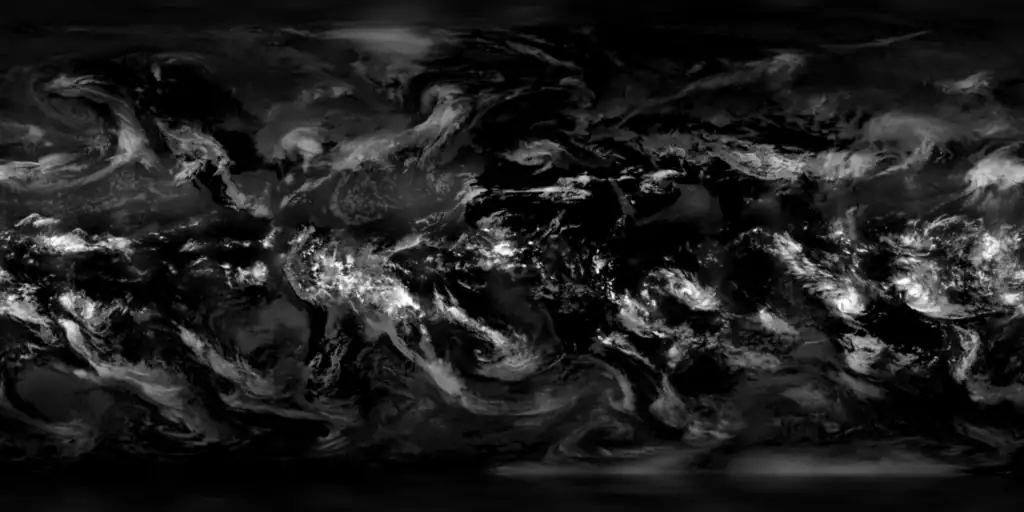
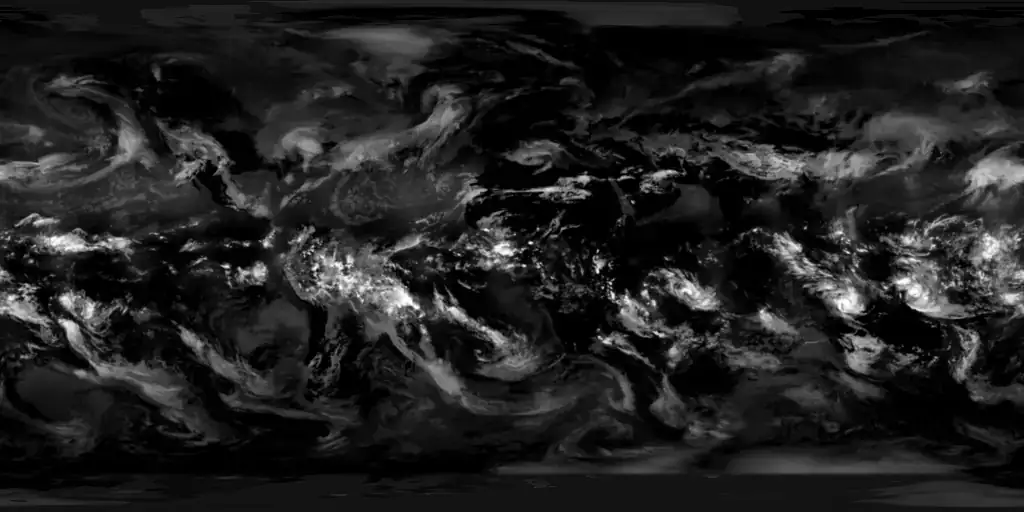
✨ feat(sail-the-stars): real satellite clouds over the poles
Earth's cloud map had no data beyond about 80°N and 76°S, because the
VIIRS daylight image saw nothing there in March. Those caps were mirrored
and blurred filler: an even grey haze. They now come from MODIS Aqua cloud
cover and cloud-top height for the same day, 21 March 2019, faded into
the existing map over 2°. The daily polar mosaics are stitched from passes
hours apart, which leaves some straight edges near the North Pole.

diff --git a/apps/sail-the-stars/index.html b/apps/sail-the-stars/index.html
@@ -219,7 +219,7 @@
         <input type="checkbox" data-speculation>
         <span>Speculative: future lights on the Moon and Mars, Venus slowly turned into a second Earth, alien cities on planets that might suit life, and wormholes</span>
       </label>
-      <p class="fh-note" data-solar-note hidden>Planet and moon positions and spins are real for today's date. From 2050 to 3000 the planets stay within about a quarter of a degree of NASA's, going by the dates we checked, but the smaller moons drift. After 3000, in our checks at 4500 and 9500, Mercury to Saturn stay within half a degree, the Moon within a degree, Uranus within about 6 and Neptune within about 5; eclipses that late land in the wrong place. Earth, Moon and Mars surfaces come from real NASA maps (about 39, 11 and 21 km per pixel); finer detail is made up by the game, including the exact outlines of light and dark patches, which the maps only show blurred, and the hills and small craters you see after landing. Every rock and blade of grass is made up too: grass grows where the map of Earth, or of terraformed Venus, is green, and Titan's pebbles are rounded like those Huygens photographed. The courses of Earth's large rivers are real, from Natural Earth's maps; their widths, depths, small bends and valleys are made up. Rivers on terraformed Venus and on other stars' planets follow the lie of the land from high ground to the sea, and lava rivers on the hottest planets run down to the lowest ground; all of those are made up. Fly down to land on any of the three. Landing turns on Follow and Rotate with, so you stay on the spot you reached; either can be turned off. Earth's clouds are real ones: a NASA satellite (VIIRS on Suomi NPP, through NASA GIBS) photographed them on 21 March 2019. Their shapes stay frozen at that day, but the game carries them all eastward around the globe once every 40 days, so they drift off the coasts and mountains they formed over. Shapes finer than about 13 km, their heights up close and the clouds over the poles are made up. Earth's city lights are real too, from NASA's Black Marble map of 2016; single lamps, shapes finer than about 5 km, their colours, their glow on clouds and their growth since 1882 are made up. Venus shows its real, nearly featureless cloud tops, which hide its surface; their faint streaks are made up. Titan's orange haze also hides its surface; its faint haze patterns are made up. You can fly down through both and land. Venus's hills come from Magellan radar, but its rock colour is a guess, since no camera has mapped it. Titan's hills come from Cassini radar, which measured only about 9% of the surface; the rest is filled in. Its ground brightness comes from Cassini's infrared camera. The glow of air around Earth, Mars, Venus and Titan is worked out from how sunlight scatters in each one's air, with strengths tuned by eye. Saturn's rings use their real radii, gaps and thicknesses, and cast and catch real shadows; their fine ringlets are made up. Solar and lunar eclipses happen on their real dates and paths: the Moon matches NASA's ephemeris to within about 20 arcseconds (roughly 40 km on the ground). During totality the corona appears; its streamers are made up. The four giant planets' swirls are painted by the game, flowing along made-up winds. They keep drifting and changing under a thin layer of high cloud, much faster than the real ones so you can see it; pausing time stops them. Their band positions and colours are tuned by eye to real photos, and the Great Red Spot, Saturn's hexagon and other features sit at about their real latitudes but made-up longitudes. Other planets and moons are placeholders until their maps are added, though every moon follows its real orbit. Dwarf planets follow JPL's orbits (within 0.7° from 1700 to 2400 for Ceres, 0.2° for the rest); their faraway dates drift more. Ceres, Pluto and Charon use real maps from Dawn and New Horizons, tinted by eye. Nobody has seen the far south of Pluto and Charon, so that part is made up, and so are the heights over most of their far sides; Ceres has only made-up hills. Pluto's haze is drawn brighter than it is. Every other dwarf planet and its moons have made-up surfaces in roughly their measured colours and sizes, as nobody has seen them up close. Haumea's stretched shape comes from its occultation of a star in 2017, but which way its long end points is a guess. Orcus, Quaoar, Gonggong and Sedna are likely dwarf planets, not officially agreed ones. Haumea's moons follow their real orbits but may be at the wrong place along them; the spin poles of Makemake, Gonggong and Sedna are guesses, and some small moons and faint rings are left out. Type Voyager 1, Curiosity or Apollo 11 under Select to visit a spacecraft, lander or rover. Thirty-four spacecraft follow paths from NASA's JPL Horizons service for as long as JPL lists them, squeezed to about 0.3 MB; they are typically within 0.1% of JPL's distance from whatever they circle, and a few percent off in the days around a flyby or arrival. Where a low orbit is drawn round Earth, the Moon or Mars, its size and tilt are real but the place along it is approximate. After JPL's data ends, craft still orbiting or drifting simply carry on. Thirty-eight landers and rovers stand at their published coordinates. Rovers move between a few dated stops in a straight line; the real routes wind about. The ground around them is the game's own, so it won't match their photos. Every model is simplified and built by hand from published sizes, and which way each craft points is worked out from its job (dish to Earth, panels to the Sun). Spacecraft on the dark side get a faint light so you can see them. Landers on comets and asteroids are left out because those worlds aren't in the game. Another 193 stars have their known planets, including nearly all hosts brighter than magnitude 6.6: type TRAPPIST-1, Pollux or 47 Ursae Majoris under Select. Planets NASA marks as disputed are left out. Star positions, sizes and temperatures, and planet sizes, masses, years and orbit sizes come from the NASA Exoplanet Archive; “about” and “at least” mark numbers nobody has measured directly. Planets that pass in front of their star do so at the measured times. Made up: which way each orbit is turned on the sky, missing tilts and positions, spins (close planets are assumed to keep one side to their star), and every surface, sea, cloud and crater, though lava, ice and seas follow each planet's temperature. No one has seen an exoplanet's surface. Young giants photographed directly, such as those of HR 8799 and Beta Pictoris, glow with the colour of their measured heat. You can land on the rocky ones: their hills, coasts, craters and lava cracks are made up too, and so is the air over the mild ones. Their clouds, and those of terraformed Venus, are ten maps from a simplified weather simulation of an Earth-like planet, reused from world to world. Every other star except the young ones in nebulae can have procedurally generated planets; the panel says so when you click one, and the same star always has the same planets. They are not real, only plausible and consistent with physics. How many there are, their sizes and their spacing follow survey results: close-in small planets a model fitted to Kepler's finds (He and Ford 2026), those of red dwarfs Dressing and Charbonneau 2015, giants Fulton 2021 and Rosenthal 2022, cold small planets a count from microlensing (Zang 2025). In a test of 20,000 F, G and K stars, 87% had a close-in small planet, 14 giants turned up per 100 stars between 2 and 8 AU, and 0.4% had a hot Jupiter. Planets of 1 to 4 Earth radii around red dwarfs came out about a fifth too rare, and giants too weakly tied to small inner planets. Planets too close together to last are thrown out, and so are those within 0.4 AU of swollen giant stars. Stars heavier than 3 Suns get none. Companion stars limit planets only where the star catalogue lists them, and the orbits ignore planets' pull on each other. Simulated stars are named SIM and a number; unnamed real ones by their place in Earth's sky. Black holes: type Sagittarius A*, OGLE-2011-BLG-0462, Nearest black hole or Nearest black hole with planets under Select. All but the first two are simulated: about 120 million in the Milky Way (Olejak 2020), each placed at random where old stars are, with a mass worked out from the star it was (Spera 2015). Their planets are procedurally generated too. They form like those of a 3-Sun star, any that came nearer than the star's largest radius (Romagnolo 2023, its largest estimate) are removed, and the rest move outward as the star loses mass. Kicks from the collapse, companions and gas falling in are left out, so these black holes are dark and only bend light. No light but the sky's reaches their planets, drawn a little brighter than it would be; their temperatures are their own inner heat. Sagittarius A* has its measured mass and place. The gas around it is drawn from models, since no telescope sees it in visible light: hot, thick and see-through, brighter on the side turning toward you. Its clumps, exact shape and tilt are made up, and its brightness is carried over from infrared; the orange of the 2022 picture stands for radio waves. Light paths follow general relativity for a black hole that does not spin, seen from a ship standing still; planets behind one are bent as if they were very far away, and the colour shift of the sky close in is left out. The ship stops at 1.2 times the horizon's radius. With Speculative on, the Moon and Mars gain lights as the date runs forward to the year 3000; every place, date and number there is a guess. The Moon only gets a few dots, about 25 stations with 25,000 people at most, because its ice is thought too scarce for cities even with careful recycling. A first base stands near its south pole in the 2030s, as NASA and China plan. Mars has far more ice: people land in the 2040s, about 1,500 live there in 2100, 100,000 in 2200 and 100 million in 3000, mostly near its buried ice and low ground. The lights are drawn brighter than such small places would look. Venus is terraformed from 2400 to 9500, going by published ideas, with dates we made up. A sunshade of small mirrors, 25,000 km wide, grows between Venus and the Sun until 2560. In its shade the planet cools; by 2740 the clouds are gone, from 2760 the carbon dioxide rains out as seas, and by 3000 those have frozen. Shipped hydrogen then turns the dry ice into water and carbon, which takes about 2,300 years. A Venus day lasts 117 Earth days, so from 5300 a second mirror circles Venus once a day and stands in for the Sun. The shade stays to block the real one. The ice melts, plants grow from 5800, people move in from 5900, and the air can be breathed by 7500. Coasts follow Magellan's radar heights with the sea filled to the level its water would reach; clouds, plants and cities are made up. LHS 1140 b and TOI-700 d and e show city lights on their night sides. The lamps take their star's colour, on the idea that eyes evolved under it would see that colour as white. No sign of life has been found on any planet but Earth; these three were chosen because they are rocky, warm enough for liquid water in the game, heavy enough that we guess they have a magnetic field, and circle quieter stars than Proxima or TRAPPIST-1. Procedurally generated planets that pass the same tests for size and warmth can have cities too. The game guesses generously: wherever 4.5 billion steady years have passed, as they have for Earth, it puts a civilization that still lasts. Each star gets an age picked evenly from 0 to 10 billion years, or to the end of its life if sooner. The wait starts when its flares calm down (after 0.8 to 7 billion years for red dwarfs, roughly following West and others 2008), and the planet must have been warm enough all that time while its star brightened. About 1 star in 20 near the Sun then has one. Nobody knows the true share: if civilizations lasted only 100 years, Westby and Conselice (2020) expect about 36 in the whole Galaxy. Type “Nearest civilization” under Select to visit the closest. Four wormhole mouths appear too, in two pairs. They are made up: general relativity allows the shape, but nobody has seen one or knows how to make one, so they stay hidden unless Speculative is on. The first pair, 100 m in radius, joins the Sun's planets to Proxima Centauri from 6043, after the far mouth has been carried there for 43 years at a tenth of light speed. The second, 300 m in radius, joins LHS 1140 to TOI-700 at every date and was built by the made-up civilization of LHS 1140 b. Each mouth keeps 60° ahead of a planet on its orbit, where small things stay put: Earth, Proxima b, LHS 1140 b and TOI-700 d. Type Wormhole under Select to find them, then fly straight in. Their shape is the simplest known one (Ellis 1973), and light through and around them follows general relativity worked out from it, as in James, von Tunzelmann, Franklin and Thorne 2015. It has no gravity, so nothing pulls the ship, stretches it or slows its clock, and you need no speed to cross. Holding one open takes matter with negative energy, about 2 × 10⁴⁴ joules of it per metre of radius: a tenth of the Sun's whole mass turned to energy for the first pair. No such matter is known, and quantum rules worked out by Ford and Roman suggest that a throat that wide would need it squeezed into an absurdly thin layer. Two wormhole mouths could also make a time machine; the game ignores that, and keeps one date everywhere. Planets on the far side show as points of light, the mouths cast no light on nearby worlds, and long-exposure photos leave them out.</p>
+      <p class="fh-note" data-solar-note hidden>Planet and moon positions and spins are real for today's date. From 2050 to 3000 the planets stay within about a quarter of a degree of NASA's, going by the dates we checked, but the smaller moons drift. After 3000, in our checks at 4500 and 9500, Mercury to Saturn stay within half a degree, the Moon within a degree, Uranus within about 6 and Neptune within about 5; eclipses that late land in the wrong place. Earth, Moon and Mars surfaces come from real NASA maps (about 39, 11 and 21 km per pixel); finer detail is made up by the game, including the exact outlines of light and dark patches, which the maps only show blurred, and the hills and small craters you see after landing. Every rock and blade of grass is made up too: grass grows where the map of Earth, or of terraformed Venus, is green, and Titan's pebbles are rounded like those Huygens photographed. The courses of Earth's large rivers are real, from Natural Earth's maps; their widths, depths, small bends and valleys are made up. Rivers on terraformed Venus and on other stars' planets follow the lie of the land from high ground to the sea, and lava rivers on the hottest planets run down to the lowest ground; all of those are made up. Fly down to land on any of the three. Landing turns on Follow and Rotate with, so you stay on the spot you reached; either can be turned off. Earth's clouds are real ones: a NASA satellite (VIIRS on Suomi NPP, through NASA GIBS) photographed them on 21 March 2019. Beyond about 80°N and 76°S, where it saw no daylight, they come from MODIS on NASA's Aqua satellite the same day, pieced together from passes hours apart, which leaves some straight edges. Their shapes stay frozen at that day, but the game carries them all eastward around the globe once every 40 days, so they drift off the coasts and mountains they formed over. Shapes finer than about 13 km and their heights up close are made up. Earth's city lights are real too, from NASA's Black Marble map of 2016; single lamps, shapes finer than about 5 km, their colours, their glow on clouds and their growth since 1882 are made up. Venus shows its real, nearly featureless cloud tops, which hide its surface; their faint streaks are made up. Titan's orange haze also hides its surface; its faint haze patterns are made up. You can fly down through both and land. Venus's hills come from Magellan radar, but its rock colour is a guess, since no camera has mapped it. Titan's hills come from Cassini radar, which measured only about 9% of the surface; the rest is filled in. Its ground brightness comes from Cassini's infrared camera. The glow of air around Earth, Mars, Venus and Titan is worked out from how sunlight scatters in each one's air, with strengths tuned by eye. Saturn's rings use their real radii, gaps and thicknesses, and cast and catch real shadows; their fine ringlets are made up. Solar and lunar eclipses happen on their real dates and paths: the Moon matches NASA's ephemeris to within about 20 arcseconds (roughly 40 km on the ground). During totality the corona appears; its streamers are made up. The four giant planets' swirls are painted by the game, flowing along made-up winds. They keep drifting and changing under a thin layer of high cloud, much faster than the real ones so you can see it; pausing time stops them. Their band positions and colours are tuned by eye to real photos, and the Great Red Spot, Saturn's hexagon and other features sit at about their real latitudes but made-up longitudes. Other planets and moons are placeholders until their maps are added, though every moon follows its real orbit. Dwarf planets follow JPL's orbits (within 0.7° from 1700 to 2400 for Ceres, 0.2° for the rest); their faraway dates drift more. Ceres, Pluto and Charon use real maps from Dawn and New Horizons, tinted by eye. Nobody has seen the far south of Pluto and Charon, so that part is made up, and so are the heights over most of their far sides; Ceres has only made-up hills. Pluto's haze is drawn brighter than it is. Every other dwarf planet and its moons have made-up surfaces in roughly their measured colours and sizes, as nobody has seen them up close. Haumea's stretched shape comes from its occultation of a star in 2017, but which way its long end points is a guess. Orcus, Quaoar, Gonggong and Sedna are likely dwarf planets, not officially agreed ones. Haumea's moons follow their real orbits but may be at the wrong place along them; the spin poles of Makemake, Gonggong and Sedna are guesses, and some small moons and faint rings are left out. Type Voyager 1, Curiosity or Apollo 11 under Select to visit a spacecraft, lander or rover. Thirty-four spacecraft follow paths from NASA's JPL Horizons service for as long as JPL lists them, squeezed to about 0.3 MB; they are typically within 0.1% of JPL's distance from whatever they circle, and a few percent off in the days around a flyby or arrival. Where a low orbit is drawn round Earth, the Moon or Mars, its size and tilt are real but the place along it is approximate. After JPL's data ends, craft still orbiting or drifting simply carry on. Thirty-eight landers and rovers stand at their published coordinates. Rovers move between a few dated stops in a straight line; the real routes wind about. The ground around them is the game's own, so it won't match their photos. Every model is simplified and built by hand from published sizes, and which way each craft points is worked out from its job (dish to Earth, panels to the Sun). Spacecraft on the dark side get a faint light so you can see them. Landers on comets and asteroids are left out because those worlds aren't in the game. Another 193 stars have their known planets, including nearly all hosts brighter than magnitude 6.6: type TRAPPIST-1, Pollux or 47 Ursae Majoris under Select. Planets NASA marks as disputed are left out. Star positions, sizes and temperatures, and planet sizes, masses, years and orbit sizes come from the NASA Exoplanet Archive; “about” and “at least” mark numbers nobody has measured directly. Planets that pass in front of their star do so at the measured times. Made up: which way each orbit is turned on the sky, missing tilts and positions, spins (close planets are assumed to keep one side to their star), and every surface, sea, cloud and crater, though lava, ice and seas follow each planet's temperature. No one has seen an exoplanet's surface. Young giants photographed directly, such as those of HR 8799 and Beta Pictoris, glow with the colour of their measured heat. You can land on the rocky ones: their hills, coasts, craters and lava cracks are made up too, and so is the air over the mild ones. Their clouds, and those of terraformed Venus, are ten maps from a simplified weather simulation of an Earth-like planet, reused from world to world. Every other star except the young ones in nebulae can have procedurally generated planets; the panel says so when you click one, and the same star always has the same planets. They are not real, only plausible and consistent with physics. How many there are, their sizes and their spacing follow survey results: close-in small planets a model fitted to Kepler's finds (He and Ford 2026), those of red dwarfs Dressing and Charbonneau 2015, giants Fulton 2021 and Rosenthal 2022, cold small planets a count from microlensing (Zang 2025). In a test of 20,000 F, G and K stars, 87% had a close-in small planet, 14 giants turned up per 100 stars between 2 and 8 AU, and 0.4% had a hot Jupiter. Planets of 1 to 4 Earth radii around red dwarfs came out about a fifth too rare, and giants too weakly tied to small inner planets. Planets too close together to last are thrown out, and so are those within 0.4 AU of swollen giant stars. Stars heavier than 3 Suns get none. Companion stars limit planets only where the star catalogue lists them, and the orbits ignore planets' pull on each other. Simulated stars are named SIM and a number; unnamed real ones by their place in Earth's sky. Black holes: type Sagittarius A*, OGLE-2011-BLG-0462, Nearest black hole or Nearest black hole with planets under Select. All but the first two are simulated: about 120 million in the Milky Way (Olejak 2020), each placed at random where old stars are, with a mass worked out from the star it was (Spera 2015). Their planets are procedurally generated too. They form like those of a 3-Sun star, any that came nearer than the star's largest radius (Romagnolo 2023, its largest estimate) are removed, and the rest move outward as the star loses mass. Kicks from the collapse, companions and gas falling in are left out, so these black holes are dark and only bend light. No light but the sky's reaches their planets, drawn a little brighter than it would be; their temperatures are their own inner heat. Sagittarius A* has its measured mass and place. The gas around it is drawn from models, since no telescope sees it in visible light: hot, thick and see-through, brighter on the side turning toward you. Its clumps, exact shape and tilt are made up, and its brightness is carried over from infrared; the orange of the 2022 picture stands for radio waves. Light paths follow general relativity for a black hole that does not spin, seen from a ship standing still; planets behind one are bent as if they were very far away, and the colour shift of the sky close in is left out. The ship stops at 1.2 times the horizon's radius. With Speculative on, the Moon and Mars gain lights as the date runs forward to the year 3000; every place, date and number there is a guess. The Moon only gets a few dots, about 25 stations with 25,000 people at most, because its ice is thought too scarce for cities even with careful recycling. A first base stands near its south pole in the 2030s, as NASA and China plan. Mars has far more ice: people land in the 2040s, about 1,500 live there in 2100, 100,000 in 2200 and 100 million in 3000, mostly near its buried ice and low ground. The lights are drawn brighter than such small places would look. Venus is terraformed from 2400 to 9500, going by published ideas, with dates we made up. A sunshade of small mirrors, 25,000 km wide, grows between Venus and the Sun until 2560. In its shade the planet cools; by 2740 the clouds are gone, from 2760 the carbon dioxide rains out as seas, and by 3000 those have frozen. Shipped hydrogen then turns the dry ice into water and carbon, which takes about 2,300 years. A Venus day lasts 117 Earth days, so from 5300 a second mirror circles Venus once a day and stands in for the Sun. The shade stays to block the real one. The ice melts, plants grow from 5800, people move in from 5900, and the air can be breathed by 7500. Coasts follow Magellan's radar heights with the sea filled to the level its water would reach; clouds, plants and cities are made up. LHS 1140 b and TOI-700 d and e show city lights on their night sides. The lamps take their star's colour, on the idea that eyes evolved under it would see that colour as white. No sign of life has been found on any planet but Earth; these three were chosen because they are rocky, warm enough for liquid water in the game, heavy enough that we guess they have a magnetic field, and circle quieter stars than Proxima or TRAPPIST-1. Procedurally generated planets that pass the same tests for size and warmth can have cities too. The game guesses generously: wherever 4.5 billion steady years have passed, as they have for Earth, it puts a civilization that still lasts. Each star gets an age picked evenly from 0 to 10 billion years, or to the end of its life if sooner. The wait starts when its flares calm down (after 0.8 to 7 billion years for red dwarfs, roughly following West and others 2008), and the planet must have been warm enough all that time while its star brightened. About 1 star in 20 near the Sun then has one. Nobody knows the true share: if civilizations lasted only 100 years, Westby and Conselice (2020) expect about 36 in the whole Galaxy. Type “Nearest civilization” under Select to visit the closest. Four wormhole mouths appear too, in two pairs. They are made up: general relativity allows the shape, but nobody has seen one or knows how to make one, so they stay hidden unless Speculative is on. The first pair, 100 m in radius, joins the Sun's planets to Proxima Centauri from 6043, after the far mouth has been carried there for 43 years at a tenth of light speed. The second, 300 m in radius, joins LHS 1140 to TOI-700 at every date and was built by the made-up civilization of LHS 1140 b. Each mouth keeps 60° ahead of a planet on its orbit, where small things stay put: Earth, Proxima b, LHS 1140 b and TOI-700 d. Type Wormhole under Select to find them, then fly straight in. Their shape is the simplest known one (Ellis 1973), and light through and around them follows general relativity worked out from it, as in James, von Tunzelmann, Franklin and Thorne 2015. It has no gravity, so nothing pulls the ship, stretches it or slows its clock, and you need no speed to cross. Holding one open takes matter with negative energy, about 2 × 10⁴⁴ joules of it per metre of radius: a tenth of the Sun's whole mass turned to energy for the first pair. No such matter is known, and quantum rules worked out by Ford and Roman suggest that a throat that wide would need it squeezed into an absurdly thin layer. Two wormhole mouths could also make a time machine; the game ignores that, and keeps one date everywhere. Planets on the far side show as points of light, the mouths cast no light on nearby worlds, and long-exposure photos leave them out.</p>
       <label class="fh-check">
         <input type="checkbox" data-music checked>
         <span>Music in the opening cutscene</span>
